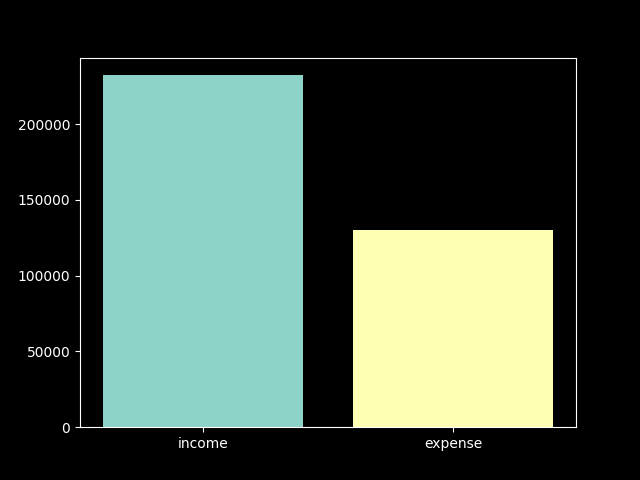
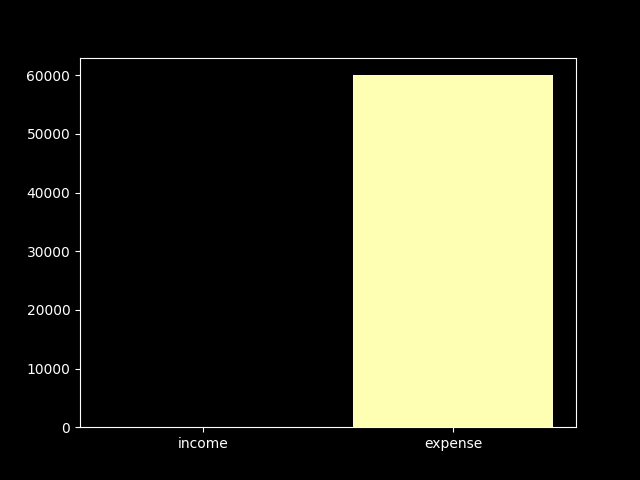
js added to manage transactions to enable edit on page

diff --git a/final_project/templates/manage_transactions.html b/final_project/templates/manage_transactions.html
@@ -5,11 +5,15 @@
 {% block main %}
 
 <!-- Date filter form -->
+
+<!-- Dropdown button -->
 <p class="d-inline-flex gap-1">
   <button class="btn btn-primary" type="button" data-bs-toggle="collapse" data-bs-target="#multiCollapseExample1" aria-expanded="false" aria-controls="multiCollapseExample1">
     Filter
   </button>
 </p>
+
+<!-- From body -->
 <div class="collapse multi-collapse" id="multiCollapseExample1">
   <div class="card card-body">
     <p>Date Range</p>
@@ -28,6 +32,7 @@
     
     <!-- Table to show user expense transactions-->
     <table class="table table-striped">
+        <!-- Header -->
         <thead>
             <tr>
                 <th>Account</th>
@@ -38,9 +43,15 @@
                 <th>Manage Transaction</th>
             </tr>
         </thead>
+
+        <!-- Table Body view and input fields -->
         <tbody>
+
+            <!-- Row -->
             {% for trans in transactions %}
             <tr>
+
+                <!-- Account -->
                 <td>
                     {% for account in accounts %}
                         {% if account.id == trans.account_id %}
@@ -48,42 +59,77 @@
                         {% endif %}
                     {% endfor %}
                 </td>
+                
+                <!-- Type -->
                 <td>
                     {{ trans.trans_type }}
                 </td>
 
+                <!-- Category -->
                 <td>
                     {{ trans.category }}
                 </td>
 
+                <!-- Date -->
                 <td>
                     {{ trans.trans_date }}
                 </td>
 
+                <!-- Amount -->
                 <td>
-                    {{ trans.amount_cents }}
+                    <span id="view-amt-{{ trans.id }}">{{ trans.amount_cents }}</span>
+                    <input id="edit-amt-{{ trans.id }}" autocomplete="off" class="form-control" min="0.00" placeholder="€{{ trans.amount_cents }}" required step="0.01" style="display:none;" type="number" value="{{ trans.amount_cents}}">
                 </td>
 
+                <!-- Manage cell -->
                 <td>
+                    <!-- Delete / Edit dropdown button -->
                     <div class="dropdown">
                         <button class="btn btn-secondary dropdown-toggle" type="button" data-bs-toggle="dropdown" aria-expanded="false">
                             Options
                         </button>
-                        <ul class="dropdown-menu">
 
+                        <ul class="dropdown-menu">
+                            <!-- Delete form-->
                             <li>
                                 <form action="/delete_transaction" method="post">
                                     <button class="dropdown-item" name="deleteTrans" type="submit" value="{{ trans.id }}">Delete</button>
                                 </form>
                             </li>
 
+                            <!-- Edit button toggles row into edit mode(JS onsubmit)-->
                             <li>
-                                <form action="/edit_transactions" method="post">
-                                <button class="dropdown-item" name="editTrans" type="submit" value="{{ trans.id }}">Edit</button>
-                                </form>
+                                <button class="dropdown-item" id="edit-btn-{{ trans.id }}" onclick="startEdit({{ trans.id }})" type="button" value="{{ trans.id }}">Edit</button>
                             </li>
 
+                            <!-- and save and cancel edit btns inside drop down list probably need to add margin and style too-->
+                            <li>
+                                <form 
+                                    action="/edit_transactions" method="post" 
+                                    id="save-form-{{ trans.id }}" 
+                                    onsubmit="saveEdit({{ trans.id }})" 
+                                    style="display:none; margin:0; padding:0; display:inline-block;">
+
+                                    <!-- Target transaction id -->
+                                    <input name="id" type="hidden" value="{{ trans.id }}">
+
+                                    <!-- Input values to be filled by JS -->
+                                    <input name="amount" type="hidden">
+
+                                    <!-- Save Button -->
+                                    <button class="btn btn-sm btn-success" id="save-btn-{{trans.id}}" style="display:none;" >
+                                        Save
+                                    </button> 
+                                </form>
+                            </li>
+                            <!-- Cancel edit -->
+                            <li>
+                                <button class="dropdown-item" id="edit-btn-{{ trans.id }}" onclick="startEdit({{ trans.id }})"  style="display:none;" type="button" value="{{ trans.id }}">Cancel</button>
+                            </li>
                         </ul>
+
+                        <!-- Save edit form -->
+                        
                     </div>
                 </td>
             </tr>
@@ -91,53 +137,63 @@
         </tbody>
     </table>
 
-    <!-- Add transaction -->
+    <!-- Script link for startEdit and saveEdit -->
+    <script src="{{ url_for('static', filename='js/main.js') }}"></script>
 
+<!-- Add transaction form -->
+
+<!-- Dropdown button -->
 <p class="d-inline-flex gap-1">
   <button class="btn btn-primary" type="button" data-bs-toggle="collapse" data-bs-target="#multiCollapseExample2" aria-expanded="false" aria-controls="multiCollapseExample2">
     Add Transaction
   </button>
 </p>
 <div class="collapse multi-collapse"" id="multiCollapseExample2">
-  <div class="card card-body">
+    <div class="card card-body">
+
+        <!-- Form body -->
         <form action="/add_transaction" method="post">
+        
+        <!-- Account -->
+            <div class="mb-3">
+                <select class="form-control" name="account" required>
+                    {% for account in accounts %}
+                        <option value="{{ account.id }}">{{ account.account_name }}</option>
+                    {% endfor %}
+                </select>
+            </div> 
 
-        <div class="mb-3">
-            <select class="form-control" name="account" required>
-                {% for account in accounts %}
-                    <option value="{{ account.id }}">{{ account.account_name }}</option>
-                {% endfor %}
-            </select>
-        </div> 
+            <!-- Type -->
+            <div class="mb-3">
+                <select class="form-control" name="type">
+                    {% for type in types %}
+                        <option value="{{ type }}">{{ type }}</option>
+                    {% endfor %}
+                </select>
+            </div> 
 
-        <div class="mb-3">
-            <select class="form-control" name="type">
-                {% for type in types %}
-                    <option value="{{ type }}">{{ type }}</option>
-                {% endfor %}
-            </select>
-        </div> 
+            <!-- Category -->
+            <div class="mb-3">
+                <select class="form-control" name="category">
+                    {% for category in categories %}
+                        <option value="{{ category.name }}">{{ category.name }}</option>
+                    {% endfor %}
+                </select>
+            </div> 
 
-        <div class="mb-3">
-            <select class="form-control" name="category">
-                {% for category in categories %}
-                    <option value="{{ category.name }}">{{ category.name }}</option>
-                {% endfor %}
-            </select>
-        </div> 
+            <!-- Amount -->
+            <div class="mb-3">
+                <input autocomplete="off" class="form-control" min="0.00" name="amount" placeholder="€0.00" required step="0.01" type="number">
+            </div>
 
-        <div class="mb-3">
-            <input autocomplete="off" class="form-control" min="0.00" name="amount" placeholder="€0.00" required step="0.01" type="number">
-        </div>
+            <!-- Date -->
+            <div class="mb-3">
+                <input autocomplete="off" class="form-control" name="date" placeholder="today" required type="date">
+            </div>
+            <button class="btn btn-primary" name="addExpense" type="submit">Submit</button>
 
-        <div class="mb-3">
-            <input autocomplete="off" class="form-control" name="date" placeholder="today" required type="date">
-        </div>
-        <button class="btn btn-primary" name="addExpense" type="submit">Submit</button>
-
-    </form>
-
-  </div>
+        </form>
+    </div>
 </div>
 
 {% endblock %}

diff --git a/final_project/static/js/main.js b/final_project/static/js/main.js
@@ -1,0 +1,19 @@
+
+function startEdit(id) {
+   
+    // todo:
+    // Account 
+    // Type
+    // Category
+    // Date
+
+    // Amount
+    document.getElementById(`view-amt-${id}`).style.display = "none";
+    document.getElementById(`edit-amt-${id}`).style.display = "inline-block";
+
+    // Buttons
+    document.getElementById(`edit-btn-${id}`).style.display = "none";
+    document.getElementById(`save-btn-${id}`).style.display = "inline-block";
+}
+
+// todo cancle edit function
